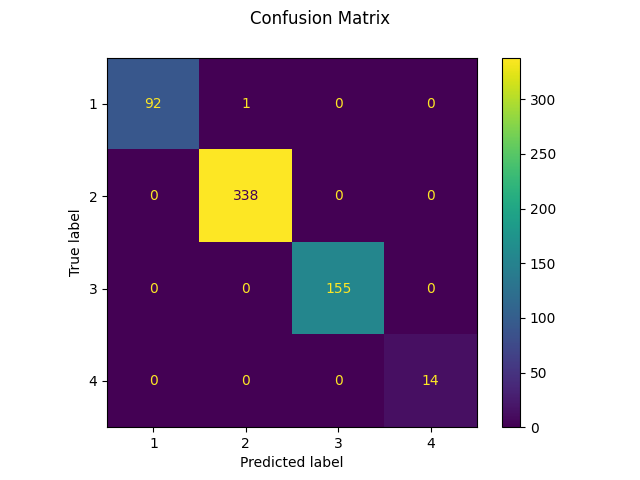
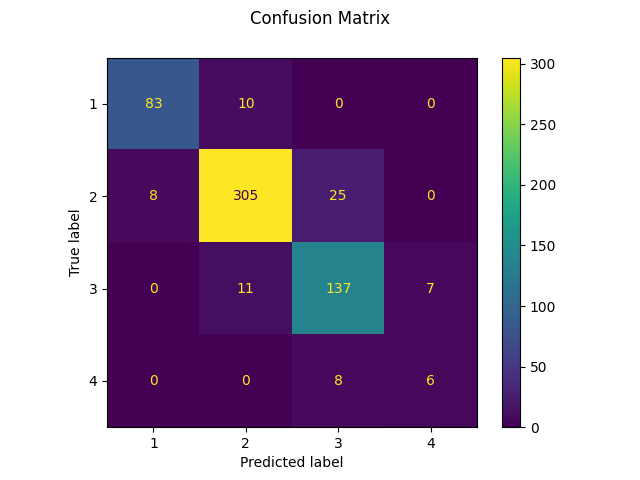
New Classifier, without using gravity

diff --git a/decision-tree.py b/decision-tree.py
@@ -12,8 +12,13 @@ from load_the_data import (
     plot_confusion_matrix
 )
 import matplotlib.pyplot as plt
+import random
 
-def decision_tree_classifier():
+best_max_depth = 0
+best_random_state = 0
+best_accuracy_score = 0
+
+def decision_tree_classifier(max_depth):
     X_attributes = given_data_classifier.drop(["label"], axis=1)
 
     ## Separar dataSet para treinamento e teste
@@ -21,26 +26,31 @@ def decision_tree_classifier():
         X_attributes, targeted_labels, test_size=0.4, random_state=1
     )
     
-    dtree_model = DecisionTreeClassifier(criterion="gini", max_depth=3)
+    dtree_model = DecisionTreeClassifier(criterion="gini", max_depth=12)
     dtree_model.fit(X_train, y_train)
 
     ## Predições
     dtree_predictions = dtree_model.predict(X_test)
-    filename = "regressor-Tree.pickle"
-    pickle.dump(dtree_model, open(filename, "wb"))
+    # filename = "regressor-Tree.pickle"
+    # pickle.dump(dtree_model, open(filename, "wb"))
 
-    plot_tree(dtree_model)
-    plt.savefig("dtree-classifier.png")
+    # plot_tree(dtree_model)
+    # plt.savefig("dtree-classifier.png")
 
     print(classification_report(y_test, dtree_predictions))
-    plot_importance(dtree_model, "tree-classifier.png")
-    plot_confusion_matrix(dtree_model, X_test, y_test, "decision-tree-classifier")
+    # plot_importance(dtree_model, "tree-classifier.png")
+    # plot_confusion_matrix(dtree_model, X_test, y_test, "decision-tree-classifier")
+    
+    global best_accuracy_score, best_max_depth, best_random_state
+    if(accuracy_score(y_test, dtree_predictions) > best_accuracy_score):    
+        best_accuracy_score = accuracy_score(y_test, dtree_predictions)
+        best_max_depth = max_depth
 
-    export_graphviz(dtree_model, 
-      out_file='Tree.dot', 
-      feature_names = X_train.columns,
-      rounded = True, proportion = False, 
-      precision = 2, filled = True)
+    # export_graphviz(dtree_model, 
+    #   out_file='Tree.dot', 
+    #   feature_names = X_train.columns,
+    #   rounded = True, proportion = False, 
+    #   precision = 2, filled = True)
 
 def decision_tree_regressor():
     X_attributes = given_data_regressor.drop(["gravity"], axis=1)
@@ -66,5 +76,13 @@ def decision_tree_regressor():
     print(mean_squared_error(y_test, dtree_predictions))
 
 
-decision_tree_classifier()
+for i in range(1):
+    decision_tree_classifier(random.randint(1, 25))
+    print("Iteração: ", i)
+
 # decision_tree_regressor()
+
+
+# print("Best max_depth: ", best_max_depth)
+# print("Best random_state: ", best_random_state)
+# print("Best accuracy_score: ", best_accuracy_score)

diff --git a/load_the_data.py b/load_the_data.py
@@ -18,7 +18,7 @@ given_data_regressor= pd.read_csv('treino_sinais_vitais_com_label.txt', names=co
 given_data_classifier= pd.read_csv('treino_sinais_vitais_com_label.txt', names=column_names_with_label, header=None)
 
 given_data_regressor = given_data_regressor.drop(['id', 'pSist', 'pDiast', 'label'], axis=1)
-given_data_classifier = given_data_classifier.drop(['id', 'pSist', 'pDiast'], axis=1)
+given_data_classifier = given_data_classifier.drop(['id', 'pSist', 'pDiast', 'gravity'], axis=1)
 
 targeted_gravity = given_data_regressor["gravity"]
 targeted_labels = given_data_classifier["label"]
